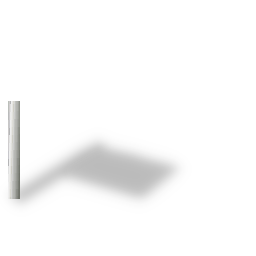
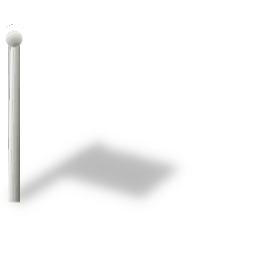
trade data and flags added to toolTip and bound other tweaks

Changed region(s): [[0.0, 0.125, 0.0938, 0.5312], [0.0312, 0.7812, 0.0938, 0.8125], [0.0312, 0.5938, 0.0625, 0.625]]

diff --git a/jonah/TradeWar/logic.js b/jonah/TradeWar/logic.js
@@ -84,7 +84,6 @@ function createFeatures(earthquakeData) {
   return earthquakes
 }
 
-
 /// This is the Flag Markers layer  ////////////////////////////////////////////////////////////////////////
 function createFeaturesMarkers(countryMarkersData) {
   
@@ -93,63 +92,37 @@ function createFeaturesMarkers(countryMarkersData) {
   // Define a function we want to run once for each feature in the features array
   // Give each feature a popup describing the place and time of the earthquake
    onEachFeature: function(feature, layer) {
-    layer.bindPopup("<h3>" + feature.properties.name +
+    layer.bindTooltip("<h2>" + "  " + feature.properties.country_name + "  " +
+    "<img src='TradeWar/data/Flags/"+`${feature.properties.country}`+".png' alt='TradeWar/data/Flags/NONE.png' style='float:right;clear:both'  height='60' width='60'></img>"+ "</p>" + "<br> " +
+
       // "</h3><hr><p>" + new Date(feature.properties.time) + 
-      "</p>" +  "</h3><hr><p>" + "Code: " + feature.properties.country + "</p>" +
-      "</p>" +  "</h3><hr><p>" + "Location: " + feature.geometry.coordinates + "</p>" +
-      "</p>" +  "</h3><hr><p>" + "Population: " + feature.properties.pop_est + "</p>" 
+      "</h3><p>" + "Code: " + feature.properties.country + " " +
+      // "<hr><p>" + "Location: " + feature.geometry.coordinates + "</p>" +
+      "<p>" + "Import Rank: " + feature.properties.imp_rank +"<br>"+ "Imports YTD: "+feature.properties.ytd_cus+  "</p>" +
+      "<p>" + "Export Rank: " + feature.properties.exp_rank + "<br>"+ "Exports YTD: "+feature.properties.exp_ytd+ "</p>" +
+      "<p>" + "Balance Rank: " + feature.properties.bal_rank + "<br>"+ "Balance YTD: "+feature.properties.bal_ytd+ "</p>" 
+      ,  {sticky: true, offset:[-4,0], direction: 'left' }
       )},
 
     pointToLayer: function(feature, latlng){
-
-
-      //   if (feature.properties.mag < 5.2) {
-      //     colorMag = "yellow";
-      //     radiusMag = (feature.properties.mag ) *20000;
-      //   }
-      //   else if (feature.properties.mag >= 5.2 && feature.properties.mag < 6.4) {
-      //     colorMag = "orange";
-      //     radiusMag = (feature.properties.mag ) *24000;
-      //   }   
-      //   else if (feature.properties.tsunami) {
-      //     colorMag = "blue";
-      //     radiusMag = (feature.properties.mag *1.4) *24000;
-      //   }   
-      //   else  {
-      //     colorMag = "red";
-      //     radiusMag = (feature.properties.mag *1.4) *24000;
-      //   }
-
-      //   function getColor(d) {
-      //     return d >= 8 ? 'blue' :
-      //            d > 6.4  ? 'red' :
-      //            d > 5.2  ? 'orange' :
-      //            d > 4   ? 'yellow' :
-      //            d > 0   ? 'white' :
-      //                       'blue';
-      // }
-
-      //   var geojsonMarkerOptions = {
-      //     iconUrl: 'http://www.senojflags.com/images/country-flag-icons/Afghanistan-Flag.png',
-      //     // radius: 100000, // radiusMag,
-      //     // fillColor: "purple", // colorMag,
-      //     // color: "purple",  // getColor(feature.properties.mag),
-      //     // weight: 3,
-      //     // opacity: 1,
-      //     // fillOpacity: 0.35
-      // };
-      function codeComment() {"Ignore Me, used to fold the above comments"}
+      ///  Hides the poles for NONE flags ///// 
+      if ( feature.properties.country === "NONE") {
+        var shadow = "TradeWar/data/Flags/NONE.png";
+        console.log(feature.properties.country);
+      } else {
+        var shadow = "TradeWar/data/Flags/shadow.png";
+      }
 
       var flag = L.icon({
-        shadowUrl: 'TradeWar/data/Flags/shadow.png',
-
+        shadowUrl: shadow,
         iconUrl: `TradeWar/data/Flags/${feature.properties.country}.png`,
-        iconSize:     [30, 30], // size of the icon
-        shadowSize:   [70, 70], // size of the shadow
+        iconSize:     [26, 26], // size of the icon
+        shadowSize:   [64, 64], // size of the shadow
         // iconAnchor:   [22, 94], // point of the icon which will correspond to marker's location
-        shadowAnchor: [16, 26],  // the same for the shadow
+        shadowAnchor: [17, 22],  // the same for the shadow
         // popupAnchor:  [-3, -76] // point from which the popup should open relative to the iconAnchor
     });
+    // console.log(feature.properties.country);
         return L.marker(latlng, { icon: flag} )
       }
     })
@@ -160,8 +133,6 @@ function createFeaturesMarkers(countryMarkersData) {
 function createMap() {
 
 // Store our API endpoint inside queryUrl
-var query2015 = "https://earthquake.usgs.gov/fdsnws/event/1/query?format=geojson&starttime=2015-09-01&endtime=" +
-"2015-12-31&maxlongitude=180&minlongitude=-180&maxlatitude=70&minlatitude=-70&minmagnitude=7.0";
 
 var d = new Date();
 var year = d.getFullYear();
@@ -174,19 +145,14 @@ var date = ytd.toString();
 
 var queryUrl = "https://earthquake.usgs.gov/fdsnws/event/1/query?format=geojson&starttime="+
 `${year-1}-${month}-${day}`+"&endtime=" +
-`${year}-${month}-${day}`+"&maxlongitude=180&minlongitude=-180&maxlatitude=70&minlatitude=-70&minmagnitude=7.0"; 
+`${year}-${month}-${day}`+"&maxlongitude=180&minlongitude=-180&maxlatitude=70&minlatitude=-70&minmagnitude=5.0"; 
     // Perform a GET request to the query URL
   d3.json(queryUrl, function(data) {
     // Once we get a response, send the data.features object to the createFeatures function
     var earthquakes =  createFeatures(data.features);
-
-/////  earthquakes 2015 DEPRECATED ////////////////////////
-  // Perform a GET request to the query URL
-  // d3.json(query2015, function(data) {
-  //   // Once we get a response, send the data.features object to the createFeatures function
-  //   var earthquakes2015 = createFeatures2015(data.features);
     
-    var countryCoordsLink = "TradeWar/data/countriesGEO.json";
+    // var countryCoordsLink = "TradeWar/data/countriesGEO.json";  
+    var countryCoordsLink = "TradeWar/data/TradeData/TradeData_geo.json";
     d3.json(countryCoordsLink, function(data) {
       // Once we get a response, send the data.features object to the createFeatures function
       var countryMarkers = createFeaturesMarkers(data.features);
@@ -286,7 +252,6 @@ var queryUrl = "https://earthquake.usgs.gov/fdsnws/event/1/query?format=geojson&
                  d > 200000  ? '#99d8c9' :
                  d > 700   ? '#ccece6' :
                               '#edf8fb'
-
 
       } 
       },
@@ -442,7 +407,7 @@ d3.json(conflicts, function(data) {
         37.09, -70.00
       ],
       zoom: 3,
-      layers: [streetmap, countries]  // , earthquakes, earthquakes2015]
+      layers: [darkmap, countriesGDP, countryMarkers]  // , earthquakes, earthquakes2015]
     });
 
 function zoomToCountry(e) {
@@ -460,7 +425,7 @@ function onEachFeature(feature, layer) {
 
 //// Create overlay object to hold our overlay layer //////////////////////////////////////////////////////
     var overlayMaps = {
-      Countries: countries,
+      Countries_POP: countries,
       Plates: plates,
       Earthquakes_YTD: earthquakes,
       // Earthquakes2015: earthquakes2015,

diff --git a/jonah/TradeWar/style.css b/jonah/TradeWar/style.css
@@ -9,6 +9,7 @@ body {
 body,
 html {
   height: 100%;
+  /* width: 100%; */
 }
 
 /* NEW ADDITIONS */
@@ -22,12 +23,26 @@ html {
   background: white;
   background: rgba(255,255,255,0.8);
   box-shadow: 0 0 15px rgba(0,0,0,0.2);
-  border-radius: 5px;
+  border-radius: 10px;
 }
 
 .info h4 {
   margin: 0 0 5px;
   color: #777;
+}
+
+/* leaflet-popup-content */
+
+.leaflet-popup-content-wrapper {
+  background: rgba(255, 255, 255, 0.8);
+  line-height: 1.4;
+  color: rgb(0, 0, 0);
+  font-style: oblique;
+  font-weight: bold;
+  padding: 1px 2px;
+
+  /* float: left;
+  clear: both"; */
 }
 
 .legend {
